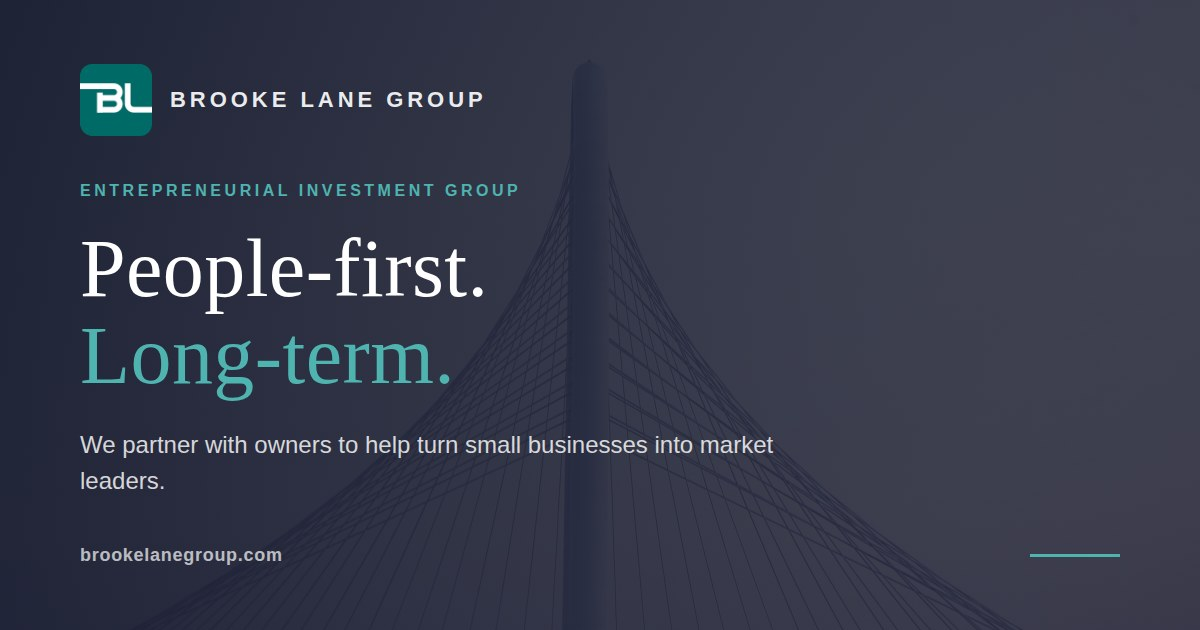
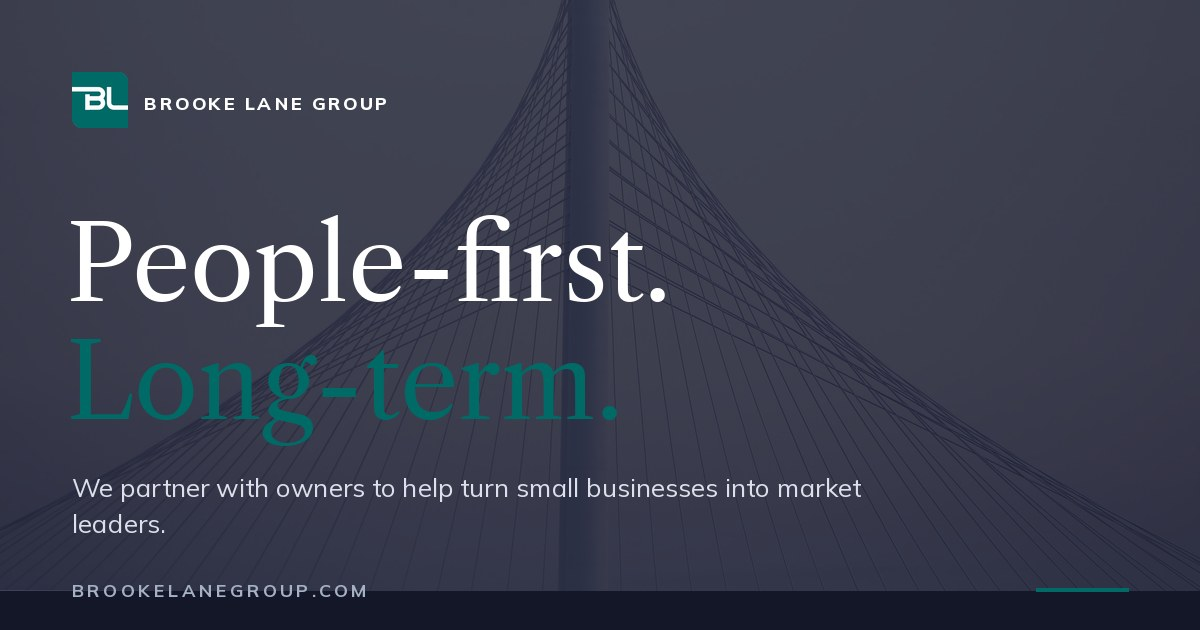
Refresh OG image + complete social meta on every page
OG image regenerated at 1200x630 in the actual brand fonts (Libre
Caslon Text for the headline, Mulish for the kicker and URL),
using the same --ink / --teal / --navy-dark / --white tokens from
the CSS so previews on LinkedIn, Twitter, iMessage, Slack, etc.
match the live site:

  - BL teal monogram + "BROOKE LANE GROUP" tracked uppercase
    wordmark, top-left
  - Two-tier serif headline: "People-first." (white) + "Long-term."
    (teal)
  - Subline: "We partner with owners to help turn small businesses
    into market leaders."
  - "BROOKELANEGROUP.COM" + subtle teal accent rule along the bottom
  - Bridge image background under a heavy navy overlay (matches
    the hero treatment)

Meta tag coverage:
  - Home + Contact already had og:image. Added og:image:width /
    height / alt + twitter:image + twitter:image:alt for parity.
  - Privacy + Terms had no social meta at all (would have
    rendered as untitled URL previews). Added full og:* +
    twitter:card / image / alt blocks (still noindex so search
    engines skip them, but shared links now render on-brand).
  - Contact's og:url updated to the new trailing-slash URL.

Changed region(s): [[0.0, 0.0, 0.6475, 0.7238], [0.0617, 0.8746, 1.0, 1.0], [0.0617, 0.754, 0.7092, 0.8444]]

diff --git a/privacy-policy/index.html b/privacy-policy/index.html
@@ -9,6 +9,16 @@
 <meta name="theme-color" content="#181D31">
 <meta name="robots" content="noindex, follow">
 
+<meta property="og:type" content="website">
+<meta property="og:site_name" content="Brooke Lane Group">
+<meta property="og:title" content="Privacy Policy | Brooke Lane Group">
+<meta property="og:description" content="Privacy Policy for Brooke Lane Group LLC.">
+<meta property="og:url" content="https://www.brookelanegroup.com/privacy-policy/">
+<meta property="og:image" content="https://www.brookelanegroup.com/assets/img/og-image.jpg">
+<meta property="og:image:alt" content="Brooke Lane Group — People-first. Long-term.">
+<meta name="twitter:card" content="summary_large_image">
+<meta name="twitter:image" content="https://www.brookelanegroup.com/assets/img/og-image.jpg">
+
 <link rel="icon" type="image/png" sizes="32x32" href="/assets/img/favicon-32.png">
 <link rel="apple-touch-icon" href="/assets/img/apple-touch-icon.png">
 

diff --git a/terms-of-service/index.html b/terms-of-service/index.html
@@ -9,6 +9,16 @@
 <meta name="theme-color" content="#181D31">
 <meta name="robots" content="noindex, follow">
 
+<meta property="og:type" content="website">
+<meta property="og:site_name" content="Brooke Lane Group">
+<meta property="og:title" content="Terms of Service | Brooke Lane Group">
+<meta property="og:description" content="Terms of Service for Brooke Lane Group LLC.">
+<meta property="og:url" content="https://www.brookelanegroup.com/terms-of-service/">
+<meta property="og:image" content="https://www.brookelanegroup.com/assets/img/og-image.jpg">
+<meta property="og:image:alt" content="Brooke Lane Group — People-first. Long-term.">
+<meta name="twitter:card" content="summary_large_image">
+<meta name="twitter:image" content="https://www.brookelanegroup.com/assets/img/og-image.jpg">
+
 <link rel="icon" type="image/png" sizes="32x32" href="/assets/img/favicon-32.png">
 <link rel="apple-touch-icon" href="/assets/img/apple-touch-icon.png">
 

diff --git a/contact/index.html b/contact/index.html
@@ -12,9 +12,14 @@
 <meta property="og:site_name" content="Brooke Lane Group">
 <meta property="og:title" content="Contact | Brooke Lane Group">
 <meta property="og:description" content="Reach out directly or send us a message — introductions and referrals are always welcome.">
-<meta property="og:url" content="https://www.brookelanegroup.com/contact">
+<meta property="og:url" content="https://www.brookelanegroup.com/contact/">
 <meta property="og:image" content="https://www.brookelanegroup.com/assets/img/og-image.jpg">
+<meta property="og:image:width" content="1200">
+<meta property="og:image:height" content="630">
+<meta property="og:image:alt" content="Brooke Lane Group — People-first. Long-term.">
 <meta name="twitter:card" content="summary_large_image">
+<meta name="twitter:image" content="https://www.brookelanegroup.com/assets/img/og-image.jpg">
+<meta name="twitter:image:alt" content="Brooke Lane Group — People-first. Long-term.">
 
 <link rel="icon" type="image/png" sizes="32x32" href="/assets/img/favicon-32.png">
 <link rel="apple-touch-icon" href="/assets/img/apple-touch-icon.png">

diff --git a/index.html b/index.html
@@ -15,7 +15,12 @@
 <meta property="og:description" content="An entrepreneurial investment group that partners with owners to help turn small businesses into market leaders.">
 <meta property="og:url" content="https://www.brookelanegroup.com/">
 <meta property="og:image" content="https://www.brookelanegroup.com/assets/img/og-image.jpg">
+<meta property="og:image:width" content="1200">
+<meta property="og:image:height" content="630">
+<meta property="og:image:alt" content="Brooke Lane Group — People-first. Long-term.">
 <meta name="twitter:card" content="summary_large_image">
+<meta name="twitter:image" content="https://www.brookelanegroup.com/assets/img/og-image.jpg">
+<meta name="twitter:image:alt" content="Brooke Lane Group — People-first. Long-term.">
 
 <!-- Icons -->
 <link rel="icon" type="image/png" sizes="32x32" href="/assets/img/favicon-32.png">